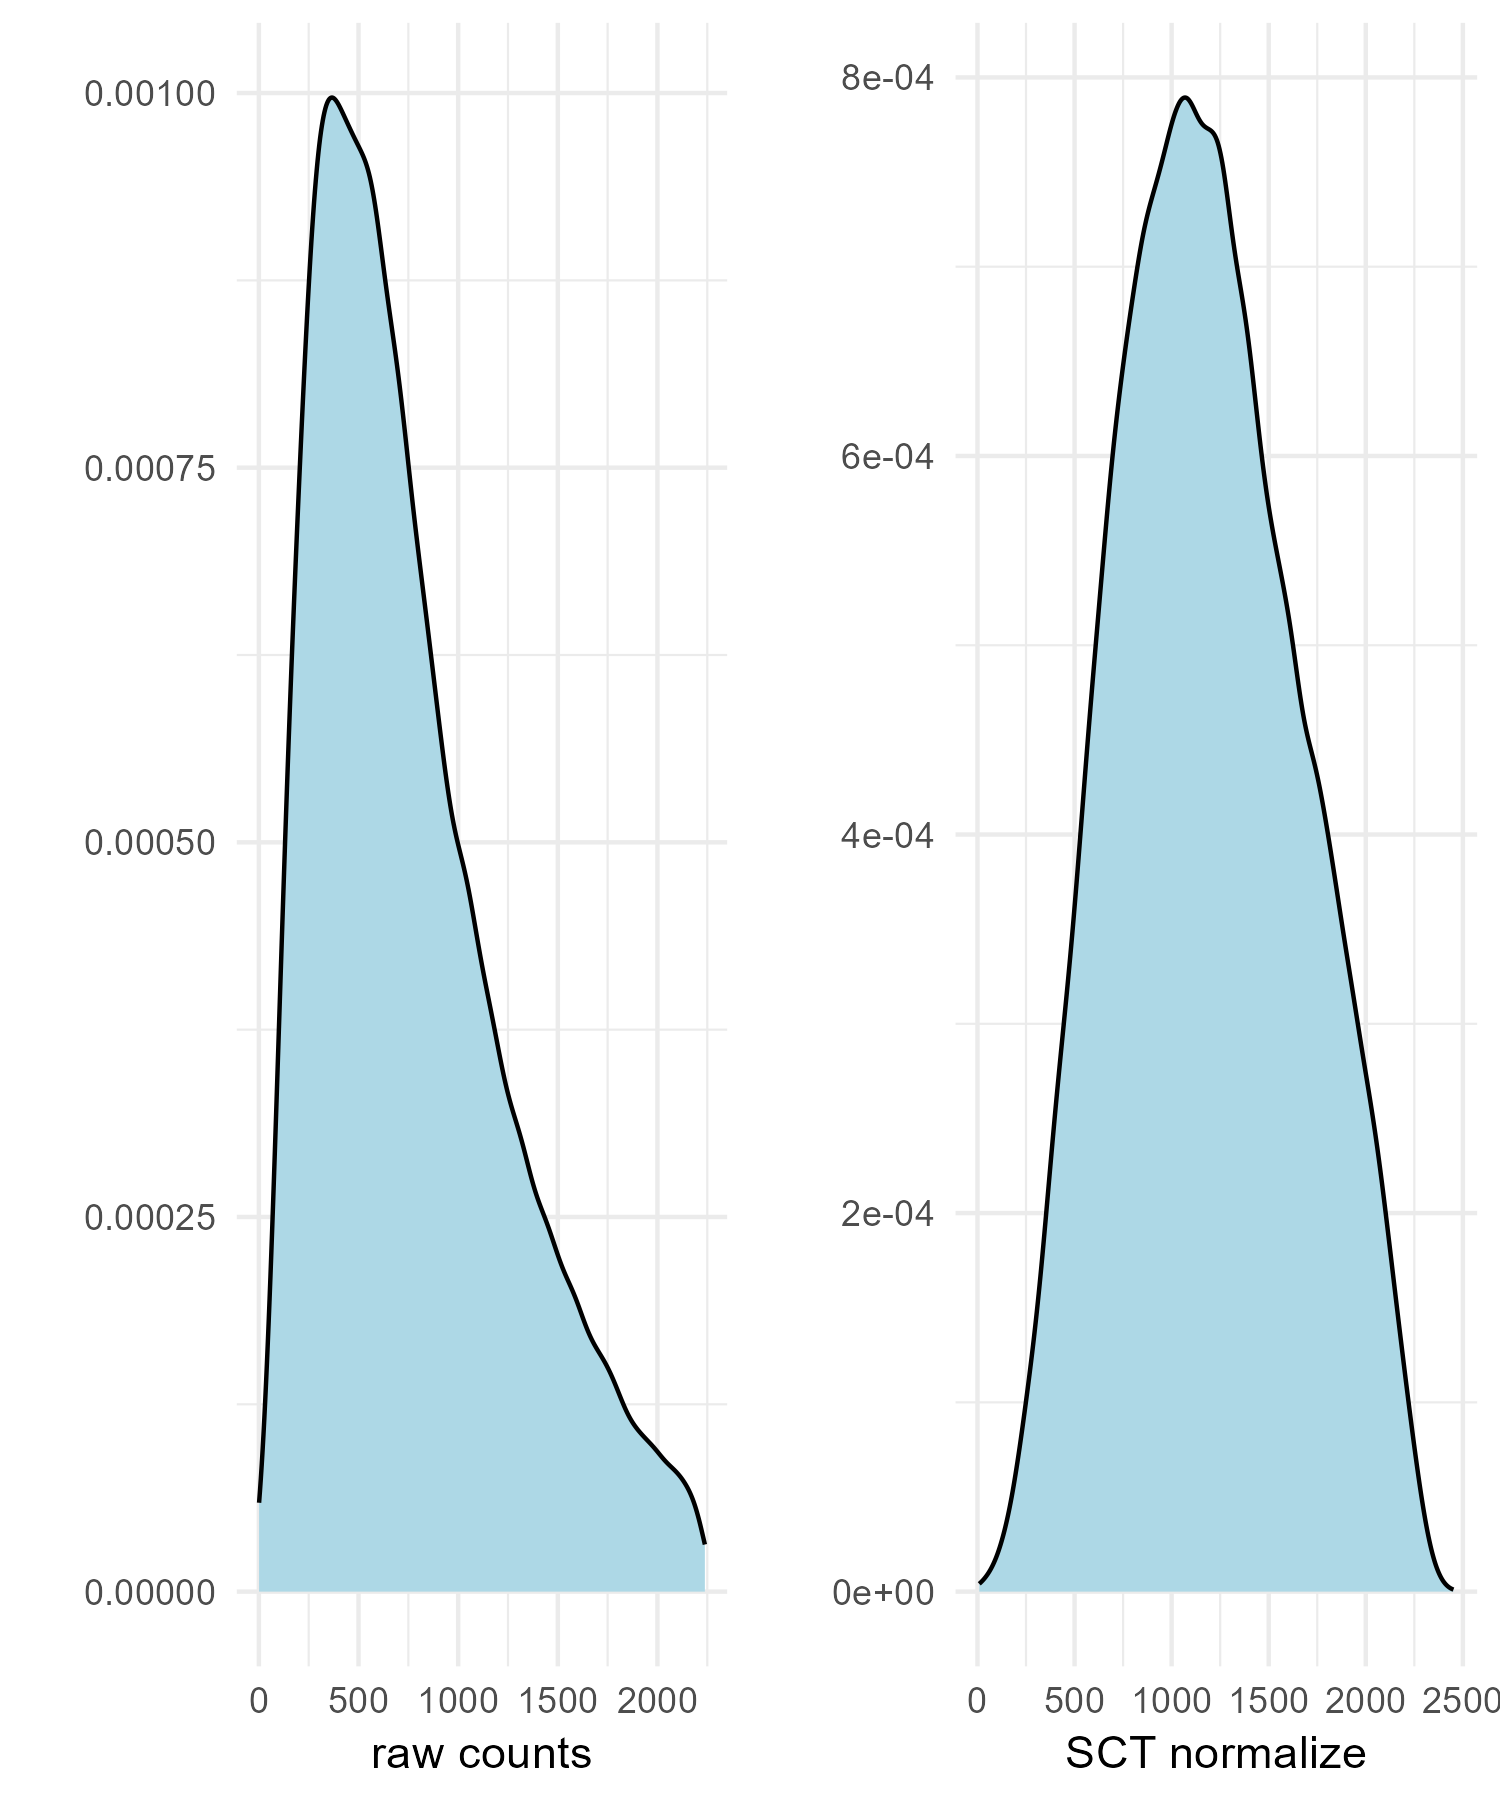
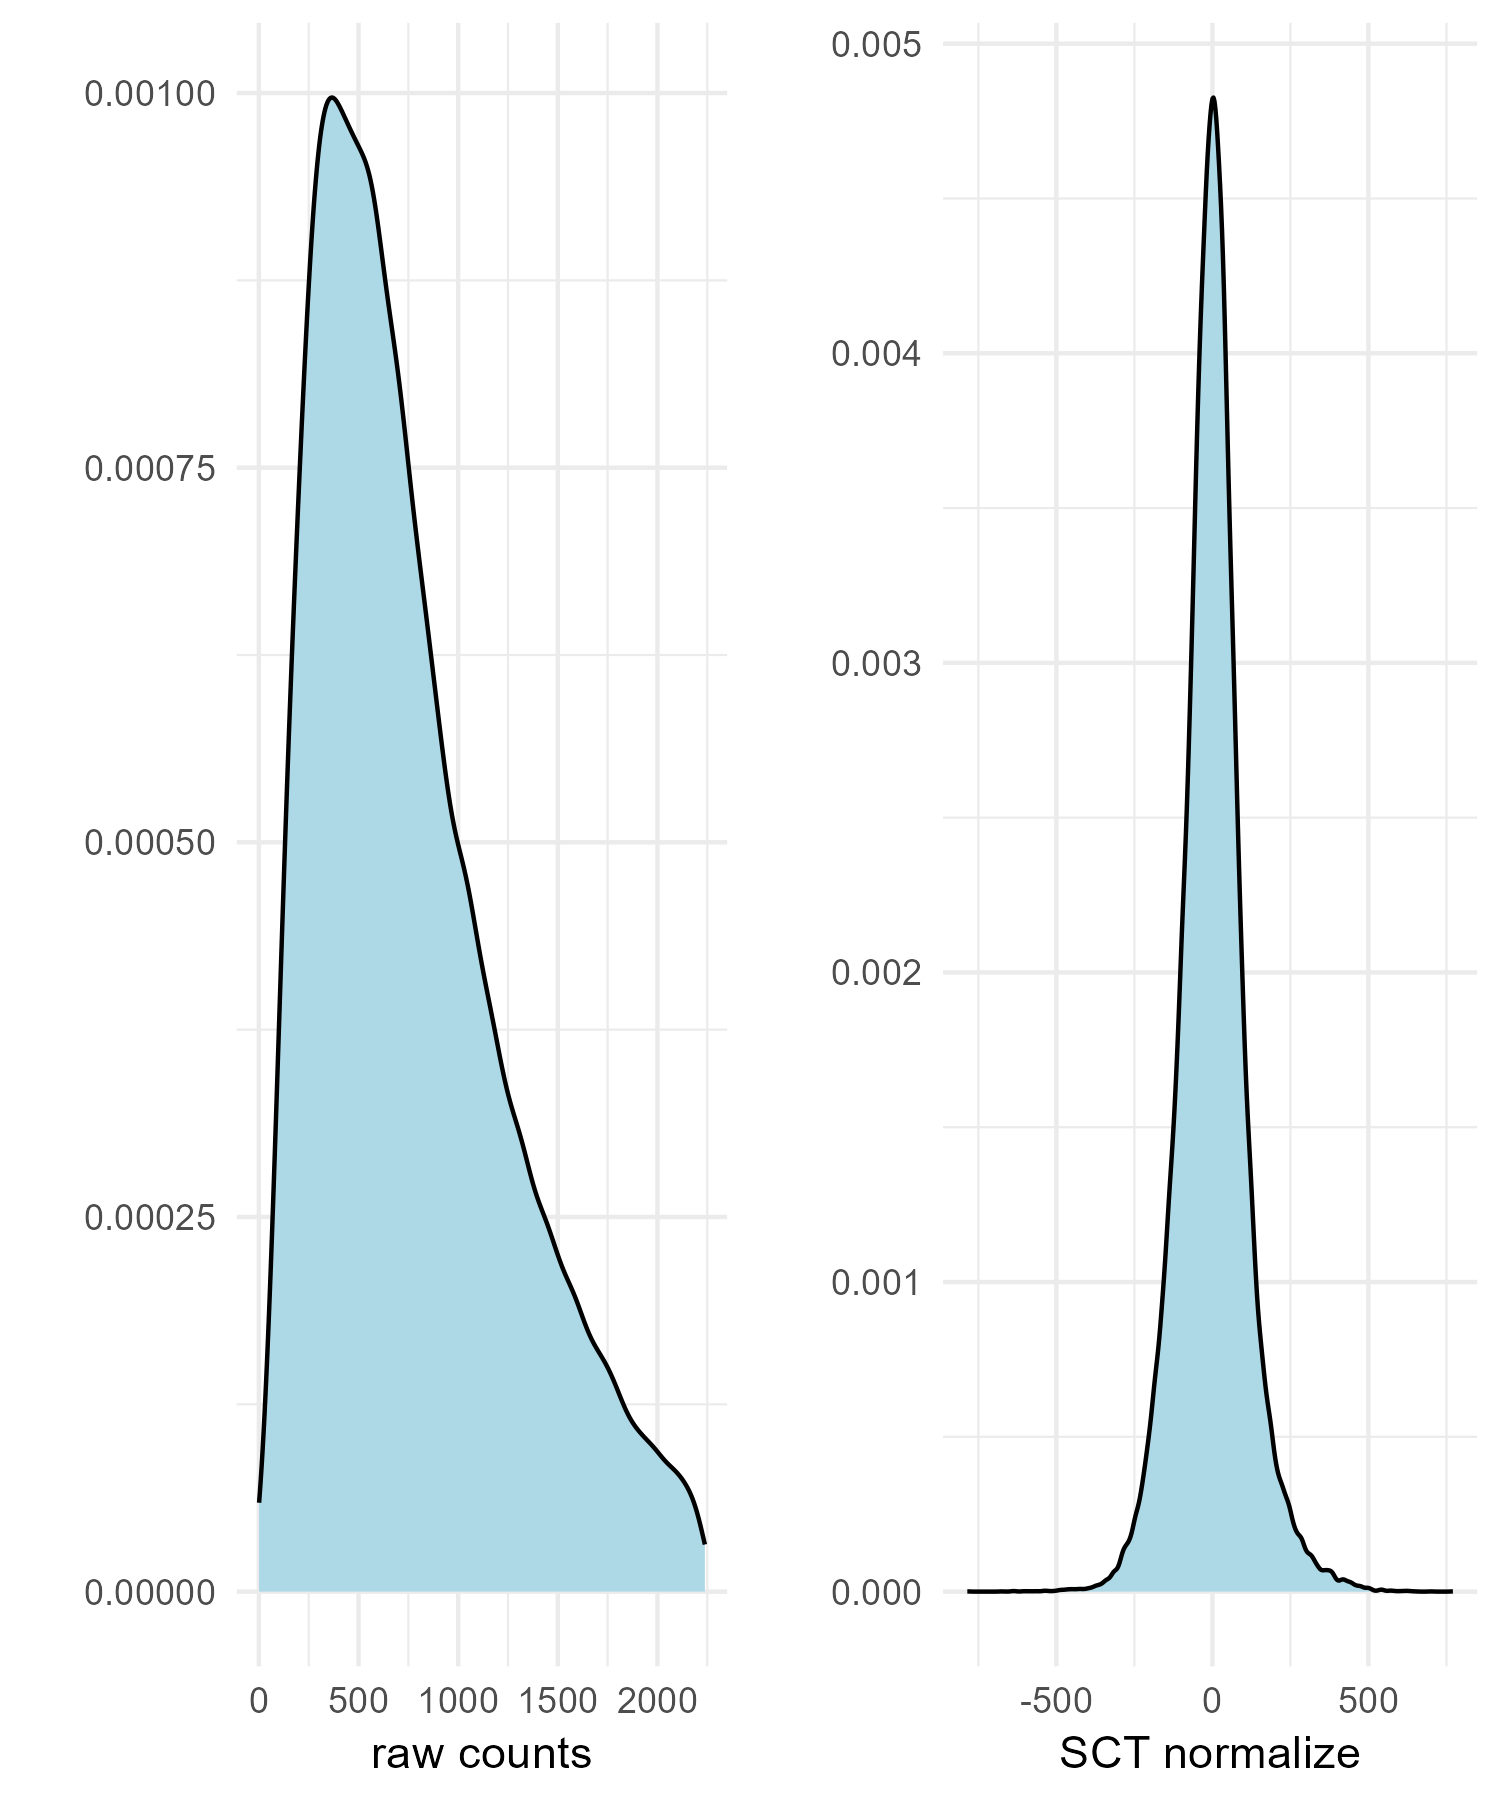
update

diff --git a/index.html b/index.html
@@ -59,7 +59,7 @@
                         <li class="nav-item"><a href="#Clustering" class="nav-link">Clustering</a></li>
                         <li class="nav-item"><a href="#Find Marker Genes" class="nav-link">Find Marker Genes</a></li>
                         <li class="nav-item"><a href="#Expression Enhancement" class="nav-link">Expression Enhancement</a></li>
-                        <li class="nav-item"><a href="#Spatially variable genes identification" class="nav-link">Spatially variable genes identification</a></li>
+                        <li class="nav-item"><a href="#Spatially Variable Genes Identification" class="nav-link">Spatially Variable Genes Identification</a></li>
                         <li class="nav-item"><a href="#Spatial Domain Detection" class="nav-link">Spatial Domain Detection</a></li>
                         <li class="nav-item"><a href="#Cell Type Annotation" class="nav-link">Cell Type Annotation</a></li>
                         <li class="nav-item"><a href="#Cell Segmentation" class="nav-link">Cell Segmentation</a></li>
@@ -114,7 +114,7 @@ pip install numpy pandas scanpy
                 <div class="collapse" id="loadRcode">
                     <pre><code class="language-r">
     library(Seurat)
-    data_path="./SS200000135TL_D1.tissue.gef_bin80.seurat.rds"
+    data_path="./SS200000135TL_D1.adjusted.cellbin.rds"
     st_data=readRDS(data_path)
 </code></pre>
                 </div>
@@ -179,7 +179,7 @@ st_data.filter=preProcessing(st_data)
 
 </code></pre>
                 </div>
-                <img src="images/Filtering.png" alt="Description of image" style="width:600px; height:auto;">
+                <img src="images/SS200000135TL_D1.adjusted.cellbin.filter_plot.png" alt="Description of image" style="width:600px; height:auto;">
 
 
 
@@ -195,7 +195,7 @@ st_data.filter=preProcessing(st_data)
                     scTransform Built upon a generalized linear model (GLM) framework, scTransform models gene expression counts while considering factors such as sequencing depth and technical biases.
                 </p>
 
-                <img src="images/SCT.png" alt="Description of image" style="width:600px; height:auto;">
+                <img src="images/SS200000135TL_D1.adjusted.cellbin.SCT.png" alt="Description of image" style="width:600px; height:auto;">
 
                 <!-- Code block toggle button -->
                 <button class="btn btn btn-info float-right" type="button" data-toggle="collapse" data-target="#scTransformCode" aria-expanded="false" aria-controls="scTransformCode">
@@ -218,7 +218,7 @@ st_data.filter=preProcessing(st_data)
                     LogNormalize is a widely used normalization technique.This method typically involves scaling each cell's total gene expression to a fixed value (such as 10,000), followed by a log-transformation to reduce the impact of outliers and high-expression genes.
                 </p>
 
-                <img src="images/LogNormalize.png" alt="Description of image" style="width:600px; height:auto;">
+                <img src="images/SS200000135TL_D1.adjusted.cellbin.logNormalizaPlot.png" alt="Description of image" style="width:600px; height:auto;">
 
                 <!-- Code block toggle button -->
                 <button class="btn btn btn-info float-right" type="button" data-toggle="collapse" data-target="#LogNormalizeCode" aria-expanded="false" aria-controls="LogNormalizeCode">
@@ -343,8 +343,8 @@ p=SpatialFeaturePlot(object = st_data.norm2, features = rownames(first_genes)[1:
                 </div>
                 <img src="images/Image_20241029120419.png" alt="Description of image" style="width:600px; height:auto;">
 
-                <!-- Spatially variable genes identification Section -->
-                <h2 id=Spatially variable genes identification" class="mt-5">Spatially variable genes identification</h2>
+                <!-- Spatially Variable Genes Identification -->
+                <h2 id="Spatially Variable Genes Identification" class="mt-5">Spatially Variable Genes Identification</h2>
                 <p>
                     Spatially variable gene identification aims to detect genes with distinct expression patterns across different spatial regions within a tissue.
                     The process typically involves computational methods that leverage spatial information to assess variability.
